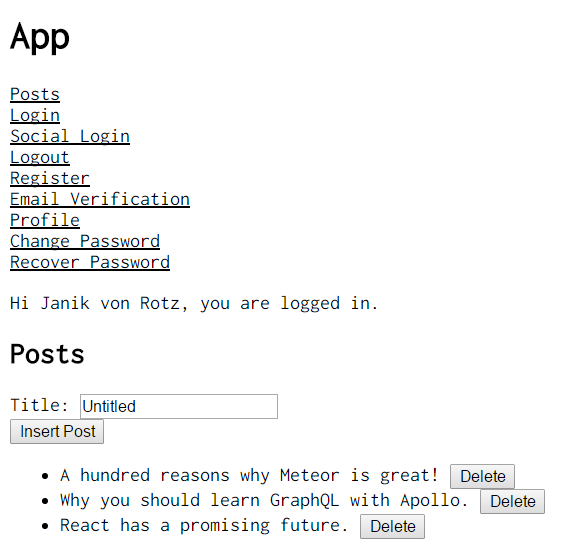
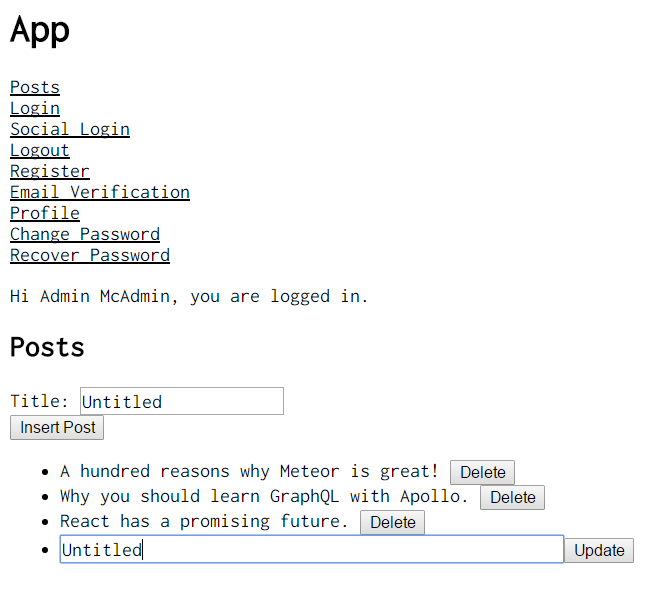
feature post update

diff --git a/client/PostList.js b/client/PostList.js
@@ -5,12 +5,17 @@ import { ApolloClient, Notification } from './index'
 
 class PostList extends React.Component {
 
-  async insert(event){
+  constructor(props) {
+    super(props);
+    this.state = {};
+  }
+
+  async insert(event) {
     event.preventDefault()
 
     let { insertPost, data } = this.props
-    let { title } = this.refs
-    title = title.value
+    let { insertTitle } = this.refs
+    let title = insertTitle.value
 
     try {
       const response = await insertPost({ title })
@@ -21,7 +26,7 @@ class PostList extends React.Component {
     }
   }
 
-  async delete(_id, event){
+  async delete(_id, event) {
     event.preventDefault()
 
     let { deletePost, data } = this.props
@@ -35,8 +40,29 @@ class PostList extends React.Component {
     }
   }
 
+  edit(_id) {
+    this.setState({edit: _id})
+  }
+
+  async update(_id) {
+    let { updatePost, data } = this.props
+
+    let { updateTitle } = this.refs
+    let title = updateTitle.value
+
+    try {
+      const response = await updatePost({ _id, title })
+      Notification.success(response)
+      this.setState({edit: null})
+      data.refetch()
+    } catch (error) {
+      Notification.error(error)
+    }
+  }
+
   render() {
     let { posts, loading } = this.props.data
+    let { edit } = this.state
 
     return loading ? (<p>Loading...</p>) : (
       <div>
@@ -47,7 +73,7 @@ class PostList extends React.Component {
           defaultValue="Untitled"
           type="text"
           required="true"
-          ref="title" />
+          ref="insertTitle" />
           <br />
           <button type="submit">Insert Post</button>
         </form>
@@ -55,7 +81,18 @@ class PostList extends React.Component {
           <ul>
             {posts.map((post) => {
               return (
-                <li key={post._id}>{post.title} <button onClick={this.delete.bind(this, post._id)}>Delete</button></li>
+                edit === post._id ?
+                  <li key={post._id}>
+                    <input
+                    ref="updateTitle"
+                    defaultValue={post.title}
+                    size="50"
+                    type="text" />
+                    <button onClick={this.update.bind(this, post._id)}>Update</button>
+                  </li> : <li key={post._id}>
+                    <span onClick={this.edit.bind(this, post._id)}>{post.title} </span>
+                    <button onClick={this.delete.bind(this, post._id)}>Delete</button>
+                  </li>
               )
             })}
           </ul>
@@ -90,7 +127,23 @@ mutation deletePost($_id: ID) {
 }
 `
 
-PostList = graphql(deletePost, {
+const updatePost = gql`
+mutation updatePost($_id: ID, $title: String) {
+  updatePost(_id: $_id, title: $title){
+    success
+  }
+}
+`
+
+PostList = graphql(updatePost, {
+  props({ mutate }) {
+    return {
+      updatePost({_id, title}) {
+        return mutate({ variables: { _id, title }})
+      }
+    }
+  },
+})(graphql(deletePost, {
   props({ mutate }) {
     return {
       deletePost({_id}) {
@@ -106,6 +159,6 @@ PostList = graphql(deletePost, {
       }
     }
   },
-})(graphql(query)(PostList)))
+})(graphql(query)(PostList))))
 
 export default PostList

diff --git a/server/resolvers.js b/server/resolvers.js
@@ -43,6 +43,16 @@ const resolvers = {
         throw new Meteor.Error("permission-denied", "Insufficient rights for this action.");
       }
     },
+    updatePost(root, args, context){
+      let { userId } = context ? context : { userId: null }
+      if(userId) {
+        let _id = args._id
+        delete args._id
+        return { success: Posts.upsert(_id, { $set: args }) }
+      } else {
+        throw new Meteor.Error("permission-denied", "Insufficient rights for this action.");
+      }
+    },
   }
 }
 

diff --git a/client/main.html b/client/main.html
@@ -3,6 +3,6 @@
   <title>Meteor Apollo Accounts Example</title>
   <link rel="icon" type="image/x-icon" href="/favicon.ico" />
 </head>
-<body style="font-family: 'Inconsolata';">
+<body style="font-family: Inconsolata;">
   <div id="render-target"></div>
 </body>

diff --git a/server/schema.js b/server/schema.js
@@ -15,6 +15,10 @@ type Mutation {
   deletePost(
     _id: ID
   ): SuccessResponse
+  updatePost(
+    _id: ID
+    title: String
+  ): SuccessResponse
 }
 type Post {
   _id: ID

diff --git a/client/main.css b/client/main.css
@@ -16,3 +16,8 @@ h1 a {
   margin-bottom:: 1em;
   padding: 0;
 }
+
+input {
+  font-size: 1em;
+  font-family: Inconsolata;
+}
